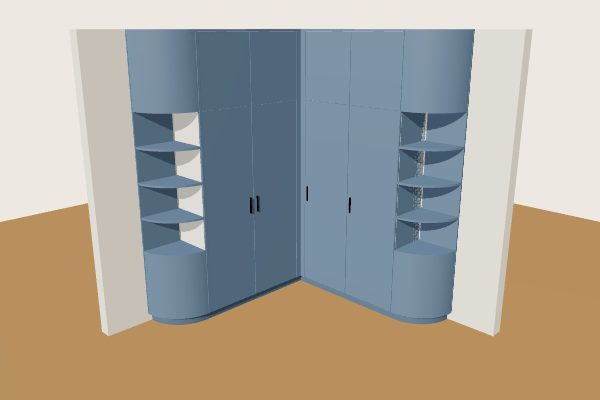
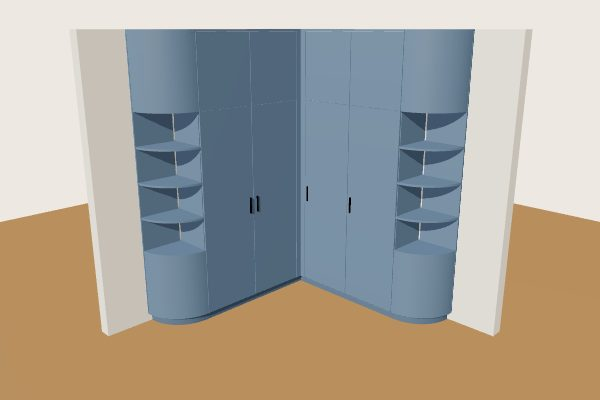
Kast: geen dubbele kopwand naast een ronde kop
Naast een recht deel stond de kopwand op dezelfde plek als de zijwand van dat
deel. In 3D flikkerden de twee vlakken (wit/blauw) en op de zaaglijst stonden
panelen die niet kunnen bestaan. Nu is de zijwand de wand van de kop, in de
afwerking. Voorbeeldafbeelding opnieuw gemaakt.

Claude-Session: https://claude.ai/code/session_01MFYgbsM26PhojXfsWiukB7

Changed region(s): [[0.27, 0.27, 0.36, 0.63], [0.69, 0.3, 0.72, 0.45], [0.69, 0.48, 0.72, 0.51]]

diff --git a/web/lib/kast/rekenmodel.ts b/web/lib/kast/rekenmodel.ts
@@ -115,6 +115,7 @@ export function bouw(o: Ontwerp): Bouw {
     let u = uFront
     let lengte = 0
     let topEersteSeg = yP
+    const kopNaast: number[] = []
     segs.forEach((s, si) => {
       const eerste = si === 0, laatste = si === segs.length - 1
       const waar = `${naam}, deel ${si + 1}`
@@ -157,8 +158,16 @@ export function bouw(o: Ontwerp): Bouw {
             }
             if (zi === s.zones.length - 1) rond.push({ naam: 'Kopblad', waar: zw, mat: mat.front, type: 'schijf', r: z.inhoud === 'open' ? R : R - MAAT.schil, y0: y1 - tf, y1, c, theta: lo, been: bi, u0: ku0, u1: ku1, dikte: tf })
             // vlakke zijden van de kop (zichtwerk)
-            const uk0 = naarBegin ? cu : cu - tf, uk1 = naarBegin ? cu + tf : cu
-            box('Kopwand korpuszijde', zw, mat.front, 'kopwand', uk0, uk1, 0, R, y, y1, { kant: 'zichtkant afgewerkt', zicht: true })
+            // Staat er een recht deel naast de kop, dan is diens zijwand de wand van
+            // de kop (die wordt aan de kopkant afgewerkt, zie hieronder). Een eigen
+            // kopwand zou op precies dezelfde plek staan: dubbel op de zaaglijst en
+            // in 3D twee vlakken door elkaar heen.
+            const buur = naarBegin ? segs[si + 1] : segs[si - 1]
+            if (buur?.vorm === 'recht') kopNaast.push(cu)
+            else {
+              const uk0 = naarBegin ? cu : cu - tf, uk1 = naarBegin ? cu + tf : cu
+              box('Kopwand korpuszijde', zw, mat.front, 'kopwand', uk0, uk1, 0, R, y, y1, { kant: 'zichtkant afgewerkt', zicht: true })
+            }
             const um0 = naarBegin ? cu - R : cu + tf, um1 = naarBegin ? cu : cu + R
             box('Kopwand muurzijde', zw, mat.front, 'kopwand', um0, um1, 0, tf, y, y1, { kant: 'zichtkant afgewerkt', zicht: true })
           }
@@ -281,6 +290,12 @@ export function bouw(o: Ontwerp): Bouw {
         box('Passtrook plafond', waar, mat.front, 'pas', eerste && isHoek ? D : a, e, dc, D, top, o.plafond, { kant: 'aftekenen op plafond', zicht: true })
       u = e
       lengte = e
+    })
+    // Zijwanden die aan een ronde kop grenzen zijn vanuit de kop te zien: in de
+    // afwerking, met de zichtkant afgewerkt.
+    delen.forEach(d => {
+      if (d.been !== bi || d.naam !== 'Zijwand' || !kopNaast.some(c => Math.abs(d.u0 - c) < 0.01 || Math.abs(d.u1 - c) < 0.01)) return
+      d.naam = 'Zijwand aan de kop'; d.mat = mat.front; d.zicht = true; d.kant = 'zichtkant afgewerkt'
     })
     // Vulstuk in de binnenhoek / passtroken in een nis
     if (isHoek) box('Vulstuk binnenhoek', naam, mat.front, 'vul', D, D + MAAT.vul, dc, D, yP, topEersteSeg, { kant: 'zichtkant afgewerkt', zicht: true })
